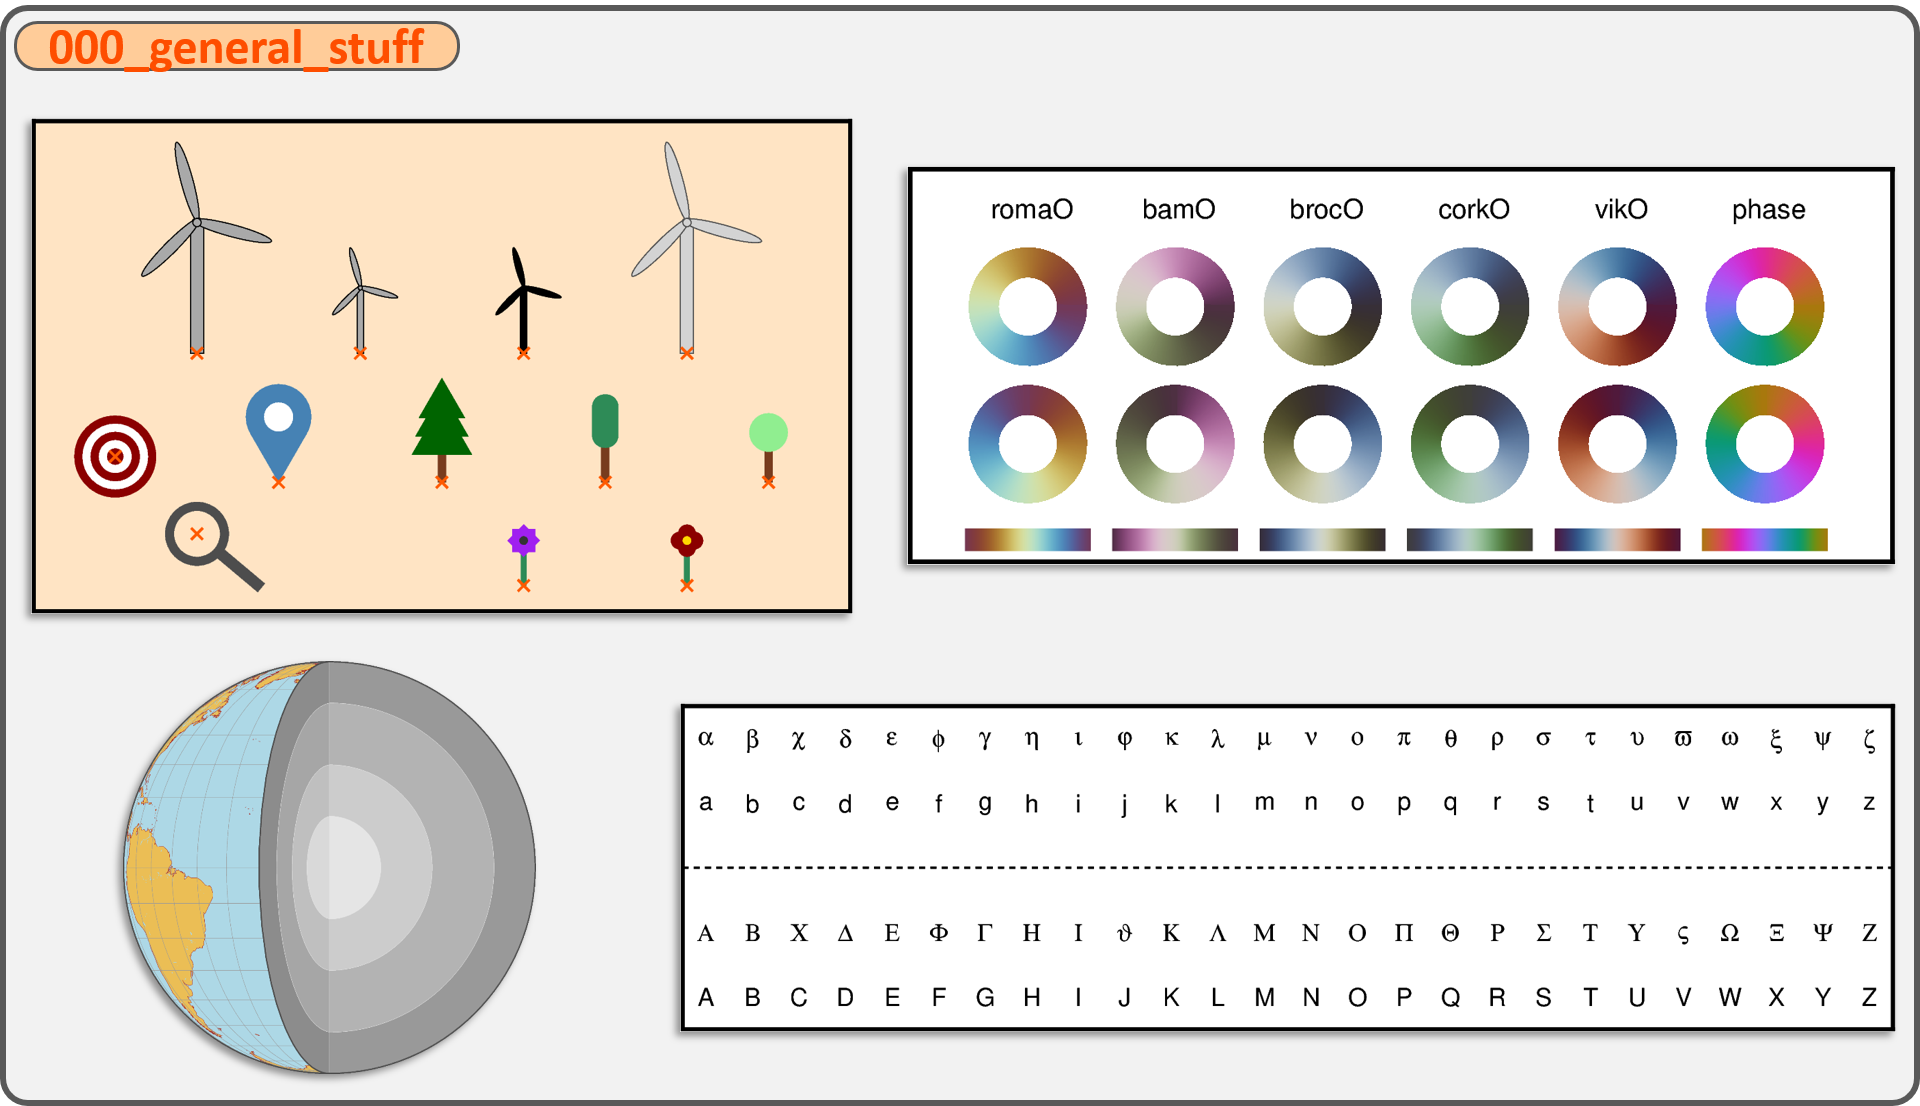
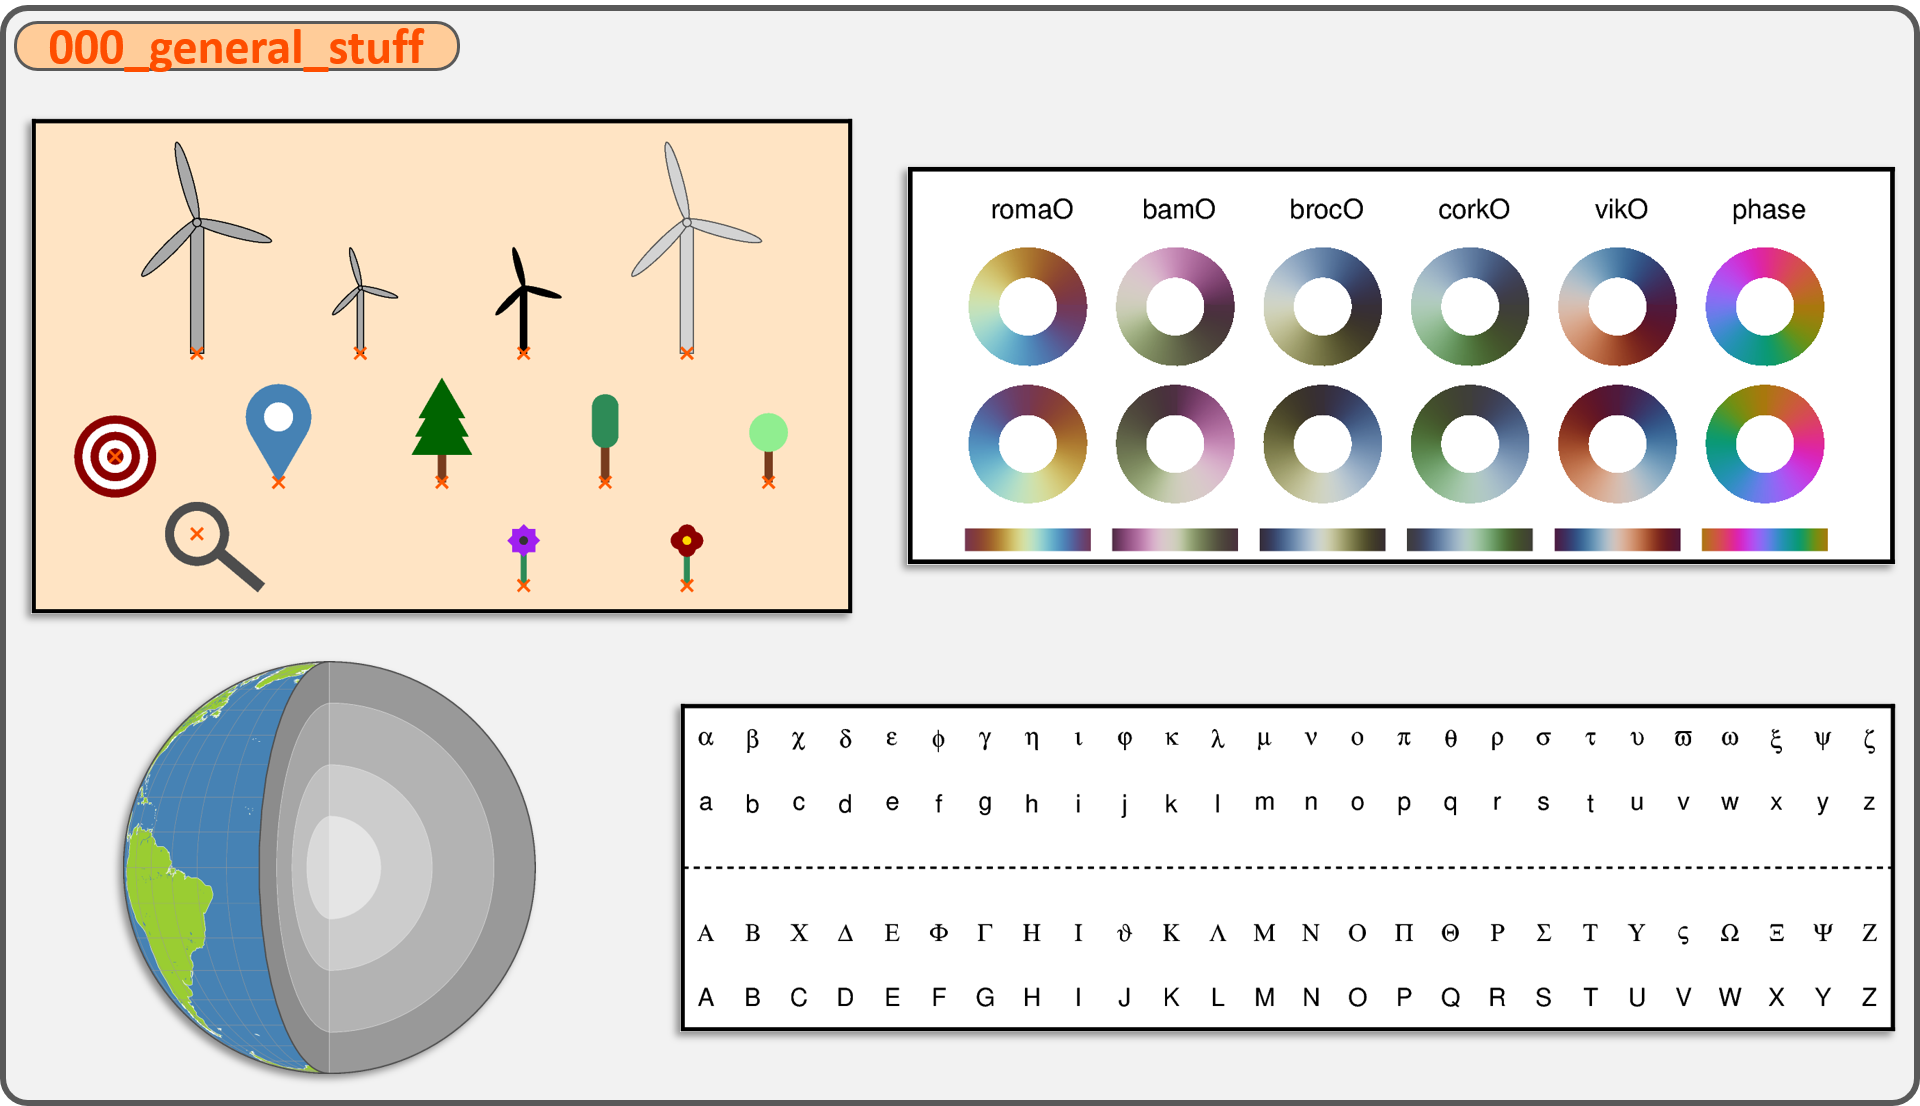
000_general_stuff/04_earth_section: Allow to select from different color combinations (#126)

Changed region(s): [[0.0625, 0.5841, 0.1562, 0.9837]]

diff --git a/000_general_stuff/04_earth_section/earth_section.py b/000_general_stuff/04_earth_section/earth_section.py
@@ -1,13 +1,14 @@
 # #############################################################################
-# Earth section
+# Sketches of Earth section
 # >>> Not to scale <<<
 # -> Adjust the ellipses for your needs
 # -----------------------------------------------------------------------------
 # History
 # - Created: 2025/01/12
+# - Updated: 2025/09/17 - Allow to select from different color combinations
 # -----------------------------------------------------------------------------
 # Versions
-# - PyGMT v0.14.0 -> https://www.pygmt.org/v0.14.0/ | https://www.pygmt.org/
+# - PyGMT v0.16.0 -> https://www.pygmt.org/v0.16.0/ | https://www.pygmt.org/
 # - GMT 6.5.0 -> https://www.generic-mapping-tools.org/
 # -----------------------------------------------------------------------------
 # Contact
@@ -19,28 +20,43 @@
 
 import pygmt
 
-
+# -----------------------------------------------------------------------------
 def earth_section(
     # Select section type: Choose from
-    # "open_vertical", "half_vertical", "half_horizontal", northeast_quadrant"
+    # "open_vertical" | "half_vertical" | "half_horizontal" | northeast_quadrant"
     section_type,
-    color_land="lightbrown",
-    color_water="lightblue",
-    color_shorelines="brown",
-    color_cover="white",
+    color_concept="green",  # "green" | "brown" | "kit" | "own"
+    # Set colors used for color_concept="own"
+    color_land="yellowgreen",
+    color_water="steelblue",
+    color_sl="white",
     pen_grid="0.1p,gray60",
     pen_map="0.8p,gray30",
     pen_sec="0.01p,gray90",
     pen_qua="0.5p,gray30,dashed",
+    color_cover="white",
     # Uncomment line 124 to save the images
     # Set path to folder where images should be stored
     path_out="",
 ):
 
-
-# -----------------------------------------------------------------------------
-    fig = pygmt.Figure()
-    pygmt.config(MAP_GRID_PEN_PRIMARY=pen_grid, MAP_FRAME_PEN=pen_map)
+    match color_concept:
+        case "green":
+            color_land = "yellowgreen"
+            color_water = "steelblue"
+            color_sl = "white"
+        case "kit":
+            color_land = "76/181/167"
+            color_water = "217/239/236"
+            color_sl = "0/150/130"
+        case "brown":
+            color_land = "lightbrown"
+            color_water = "lightblue"
+            color_sl = "brown"
+        case "own":
+            color_land = color_land
+            color_water = color_water
+            color_sl = color_sl
 
     match section_type:
         case "open_vertical" | "half_vertical":
@@ -57,14 +73,13 @@ def earth_section(
             x_qua = [-10, -10, 100, 40]
             y_qua = [90, 0, 0, 90]
 
-    fig.coast(
-        projection=projection,
-        region="g",
-        frame="g10",
-        land=color_land,
-        water=color_water,
-        shorelines=f"1/0.01p,{color_shorelines}",
-    )
+# -----------------------------------------------------------------------------
+    fig = pygmt.Figure()
+    pygmt.config(MAP_GRID_PEN_PRIMARY=pen_grid, MAP_FRAME_PEN=pen_map)
+
+    fig.basemap(projection=projection, region="g", frame=0)
+    fig.coast(land=color_land, water=color_water, shorelines=f"1/0.01p,{color_sl}")
+    fig.basemap(frame="g10")
 
 # -----------------------------------------------------------------------------
     match section_type:
@@ -110,29 +125,27 @@ def earth_section(
             fig.coast(
                 land=f"{color_land}@90",
                 water=f"{color_water}@90",
-                shorelines=f"1/0.01p,{color_shorelines}@50",
+                shorelines=f"1/0.01p,{color_sl}@50",
             )
             fig.basemap(frame="g10")
 
 # -----------------------------------------------------------------------------
     fig.show()
-    fig_name = f"earth_section_{section_type}"
+    fig_name = f"earth_section_{section_type}_{color_concept}"
     for ext in ["png"]:
         alpha_png = False
         if ext == "png":
             alpha_png = True
-        # fig.savefig(fname=f"{path_out}{fig_name}.{ext}", dpi=360, transparent=alpha_png)
+        # fig.savefig(fname=f"{path_out}{fig_name}.{ext}", transparent=alpha_png)
     print(fig_name)
 
 
 # %%
 # -----------------------------------------------------------------------------
-# Example
+# Examples
 # -----------------------------------------------------------------------------
-for section_type in [
-    "open_vertical",
-    "half_vertical",
-    "half_horizontal",
-    "northeast_quadrant",
-]:
-    earth_section(section_type=section_type)
+earth_section(section_type="open_vertical")
+
+earth_section(section_type="half_horizontal", color_concept="brown")
+
+earth_section(section_type="northeast_quadrant", color_concept="kit")

diff --git a/000_general_stuff/README.md b/000_general_stuff/README.md
@@ -9,5 +9,5 @@ _Recommended versions_: PyGMT v0.11.0-v0.16.0, GMT 6.4.0-6.5.0
 
 | **[04_earth_section](https://github.com/yvonnefroehlich/gmt-pygmt-plotting/tree/main/000_general_stuff/04_earth_section/earth_section.py)** |
 | --- |
-| Earth section (currently not to scale) |
-| <img src="https://github.com/yvonnefroehlich/gmt-pygmt-plotting/raw/main/000_general_stuff/04_earth_section/earth_section_open_vertical.png" width="150"> <img src="https://github.com/yvonnefroehlich/gmt-pygmt-plotting/raw/main/000_general_stuff/04_earth_section/earth_section_northeast_quadrant.png" width="150"> <img src="https://github.com/yvonnefroehlich/gmt-pygmt-plotting/raw/main/000_general_stuff/04_earth_section/earth_section_half_horizontal.png" width="150"> <img src="https://github.com/yvonnefroehlich/gmt-pygmt-plotting/raw/main/000_general_stuff/04_earth_section/earth_section_half_vertical.png" width="150"> |
+| Sketches of Earth section (currently not to scale) |
+| <img src="https://github.com/yvonnefroehlich/gmt-pygmt-plotting/raw/main/000_general_stuff/04_earth_section/earth_section_open_vertical_green.png" width="100"> <img src="https://github.com/yvonnefroehlich/gmt-pygmt-plotting/raw/main/000_general_stuff/04_earth_section/earth_section_half_horizontal_brown.png" width="100"> <img src="https://github.com/yvonnefroehlich/gmt-pygmt-plotting/raw/main/000_general_stuff/04_earth_section/earth_section_northeast_quadrant_kit.png" width="100"> |
